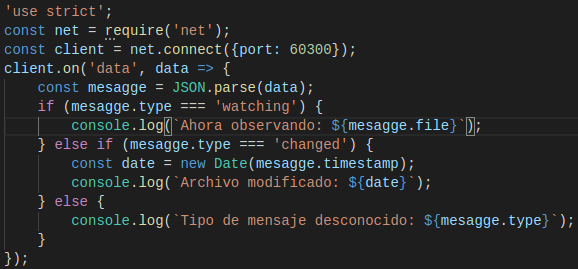
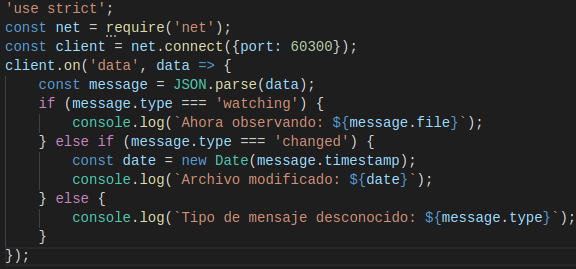
Apartado 4 Completo

diff --git a/networking/test-json-service.js b/networking/test-json-service.js
@@ -1,0 +1,27 @@
+'use stric';
+const server = require('net').createServer(connection => {
+    console.log('Subscriber connected.');
+
+    // Dos fragmentos que juntos forman un mensaje
+    const firstChunck = '{"type":"changed","timesta';
+    const secondChunck = 'mp":10101201011010}\n';
+
+    // Enviamos el primer fragmento inmediatamente
+    connection.write(firstChunck);
+
+    // Después de cierto delay, enviamos el otro fragmento
+    const timer = setTimeout(() => {
+        connection.write(secondChunck);
+        connection.end();
+    }, 100);
+
+    // Reseteamos el timer cuando termina la conexión
+    connection.on('end', () => {
+        clearTimeout(timer);
+        console.log('Subscriber disconnected');
+    });
+});
+
+server.listen(60300, function() {
+    console.log('Test server listening for subscribers...');
+});

diff --git a/networking/net-watcher-json-client.js b/networking/net-watcher-json-client.js
@@ -2,13 +2,13 @@
 const net = require('net');
 const client = net.connect({port: 60300});
 client.on('data', data => {
-    const mesagge = JSON.parse(data);
-    if (mesagge.type === 'watching') {
-        console.log(`Ahora observando: ${mesagge.file}`);
-    } else if (mesagge.type === 'changed') {
-        const date = new Date(mesagge.timestamp);
+    const message = JSON.parse(data);
+    if (message.type === 'watching') {
+        console.log(`Ahora observando: ${message.file}`);
+    } else if (message.type === 'changed') {
+        const date = new Date(message.timestamp);
         console.log(`Archivo modificado: ${date}`);   
     } else {
-        console.log(`Tipo de mensaje desconocido: ${mesagge.type}`);
+        console.log(`Tipo de mensaje desconocido: ${message.type}`);
     }
 });

diff --git a/networking/lib/ldj-client.js b/networking/lib/ldj-client.js
@@ -1,0 +1,24 @@
+'use strict';
+const EventEmitter = require('events').EventEmitter;
+class LDJClient extends EventEmitter {
+    constructor(stream) {
+        super();
+        let buffer = '';
+        stream.on('data', data => {
+            buffer += data;
+            let boundary = buffer.indexOf('\n');
+            while (boundary !== -1) {
+                const input = buffer.substring(0, boundary);
+                buffer = buffer.substring(boundary + 1);
+                this.emit('message', JSON.parse(input));
+                boundary = buffer.lastIndexOf('\n');
+            }
+        });
+    }
+
+    static connect(stream) {
+        return new LDJClient(stream);
+    }
+}
+
+module.exports = LDJClient;

diff --git a/networking/net-watcher-ldj-client.js b/networking/net-watcher-ldj-client.js
@@ -1,0 +1,13 @@
+'use strict';
+const netClient = require('net').connect({port: 60300});
+const ldjClient = require('./lib/ldj-client.js').connect(netClient);
+
+ldjClient.on('message', message => {
+    if (message.type === 'watching') {
+        console.log(`Ahora observando: ${mesagge.file}`);
+    } else if (message.type === 'changed') {
+        console.log(`Archivo modificado: ${new Date(message.timestamp)}`);   
+    } else {
+       throw Error(`Tipo de mensaje desconocido: ${mesagge.type}`);
+    }
+});

diff --git a/README.md b/README.md
@@ -113,6 +113,8 @@ El programa *net-watcher* desarrollado en el apartado anterior envía dos tipos 
 1. Cuando la conección se establece, el cliente recibe el mensaje "No watching *target.txt* for changes..."
 2. Cuando se producen cambios en el fichero, el cliente recibe otro mensaje donde se muestra la notificación y la fecha del cambio.
 
+No hay saltos de línea en nuestros mensajes JSON, nuestro protocolo usará nuevas líneas solo para separar los mensajes. Este protocolo se conoce como *line-delimited JSON* (LDJ). 
+
 Codificaremos el primer mensaje de esta forma, donde *type* indica el tipo de mensaje, y *file* hace referencia al fichero que se está controlando: 
 
 ![imagen11](images/cap11.png)
@@ -140,3 +142,114 @@ A continuación definimos un programa cliente en *Node.js* para recibir mensajes
 Vemos su ejecución:
 
 ![imagen15](images/cap15.png)
+
+
+### Testing Network Application Functionally
+
+Los *Functional test* o pruebas funcionales nos aseguran que nuestro código se comporta de la manera que esperamos. En este apartado desarrollamos pruebas para el programa *file-watching* tanto para el servidor como para el cliente.
+
+**Understanding the Mesagge-Boundary Problem**
+
+Muchas veces los progrmas en red de Node.js se comunican pasando mensajes, siendo posible que estos mensajes no lleguen de una vez, sino que lleguen en pedazos, divididos en eventos de datos distintos.
+
+El protocolo LDJ separa los mensajes con caracteres de nueva linea, estos caracteres suponen el límite entre dos mensajes.
+
+En el servico que hemos desarrollado, cada vez que se produce un cambio, codifica y envía el mensaje a la conexión, incluyendo la nueva línea. Los límites del evento de datos corresponden con los límites del mensaje, pero podría darse el caso de que un mensaje se dividiera por la mitad y llegase como dos eventos de datos separados:
+
+![imagen16](images/cap16.png)
+
+A continuación crearemos un servicio de prueba que envíe un mensaje dividido para comprobar como respondería el cliente.
+
+
+**Implementing a Test Service**
+
+Implementamos un servicio de prueba que divide un mensaje en múltiples fragmentos:
+
+![imagen17](images/cap17.png)
+
+Primero se envia la primera parte del mensaje, y después de un pequeño margen de tiempo, se envía la segunda.
+Siempre que la conexión finaliza, se usa *clearTimeout* para cancelar la programación de la devolución de llamada, que es necesario porque una vez que se cierra una conexión, cualquier llamada a *connection.write* activará eventos de error.
+
+Nos conectamos con el programa cliente para ver que sucede:
+
+![imagen18](images/cap18.png)
+
+El error *Unexpected token* nos dice que el mensaje no está completo. El cliente trata de enviar medio mensaje a *JSON.parse*, que espera solo cadenas JSON completas y correctamente formateadas como entrada. 
+
+Así pues, hemos tenido éxito simulando que sucedería en el caso de que un mensaje dividido sea enviado desde servidor.
+
+### Extending Core Classes in Custom Modules
+
+En el apartado anterior un fallo en nuestro programa cliente: no almacena sus entradas en el búfer. Cualquier mensaje que llegue como múltiples eventos de datos lo bloqueará. 
+
+Así será necesario que el programa cliente almacene los datos entrantes en los mensajes y maneje cada mensaje cuando llegue. Para ello crearemos un módulo que maneje el buffer de entrada para que el programa principal pueda obtener mensajes completos de manera confiable.  
+
+**Extending EventEmitter**
+
+Implementamos un módulo para el programa cliente de almacenamiento en búfer LDJ. 
+
+1. **Inheritance in Node**:
+
+Veamos como funciona la herencia en Node.js; El siguiente código configura DHClient para heredar de EventEmitter:
+
+![imagen19](images/cap19.png)
+
+- *LDJClient* es una clase, lo que implica que se debe llamar a *new LDJClient(stream)* para obtener una instancia. El parametro *stream* es un objeto que envía enventos de datos.
+
+- Dentro del constructor se llama a *super* para invocar al constructor de *EventEmitter*.
+
+- El código para usar *LDJClient* podría ser el siguiente:
+<pre><code> const client = new LDJClient(networkStream);
+client.on('meagge',mesagge => {
+    // Tomar acciones para el mensaje
+}) </code></pre>
+
+Una vez establecida la jerarquía de clases debemos implimentar el envío de eventos de mensaje.
+
+2. **Buffering Data Events**: El objetivo es utilizar el parámetro *stream* para recuper y almacenar en el buffer la entrada. El objetivo es tomar los datos entrantes sin procesar y convertirlos en eventos de mensaje que contengan los objetos de mensaje completo:
+
+![imagen20](images/cap20.png)
+
+- El código agrega fragmentos del mensaje a una cadena buffer y busca terminaciones de línea (que corresponderían con los límites de mensajes JSON).
+
+- Comenzamos llamando a *super* y configuramos una variable string llamada *buffer* que capture los datos entrantes.
+
+- Luego utilizamos *steam.on* para controlar los eventos de datos; primero se agregan los datos sin procesar al final del buffer y luego se buscan los mensajes completos desde el frente.
+
+- Cada cadena del mensaje se envía a través de *JSON.parse* para que finalmente sea emitido por *LDJClient* como un evento de mensaje via *this.emit*.
+
+Con esto quedaría resuleto el manejo de mensajes.
+
+3. **Exporting Functionality in a Module**: Ahora añadiremos la clase implementada dentro de un módulo.
+
+- En primer lugar ya tenemos creado el directorio *lib*, donde por convención se almacenan los modulos.
+
+- El contenido del módulo es el siguiente:
+
+![imagen21](images/cap21.png)
+
+Trás el código desarrollado previamente, añadimos un método estático llamado *connect*, este método estático se adjunta a la clase LDJClient en lugar de aplicarse a instancias individuales. 
+
+En un módulo Node.js, el objeto *module.exports* funciona como puente entre el código del módulo y el resto de elementos. El código para usar el módulo LDJ se verá así:
+
+<pre><code> const LDJClient = require('./lib/ldj-client.js'); 
+const client = new LDJClient(networkStream);</pre></code>
+
+Si se usa el método *connect*:
+
+<pre><code> const client = require('./lib/ldj-client.js').connect(networkStream); </code></pre>
+
+En ambos casos es necesario especificar la ruta completa.
+
+**Importing a Custom Node.js Module**
+
+Para utilizar el módulo implementado definimos el programa cliente:
+
+![imagen22](images/cap22.png)
+
+Comprobamos que se soluciona el problema de los mensajes fragmentados:
+
+![imagen23](images/cap23.png)
+
+
+### Developing Unit Tests with Mocha
